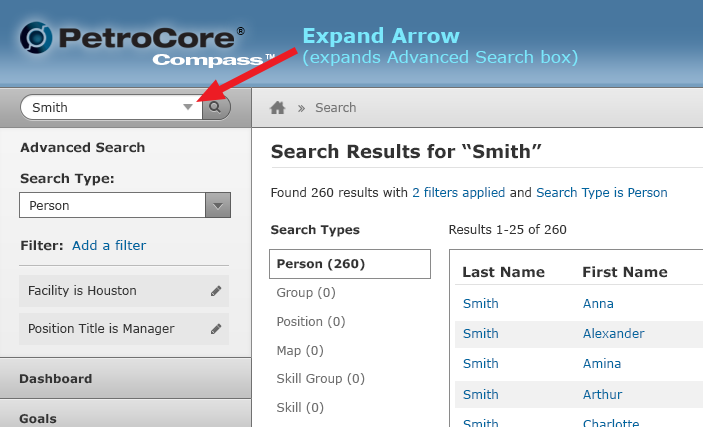
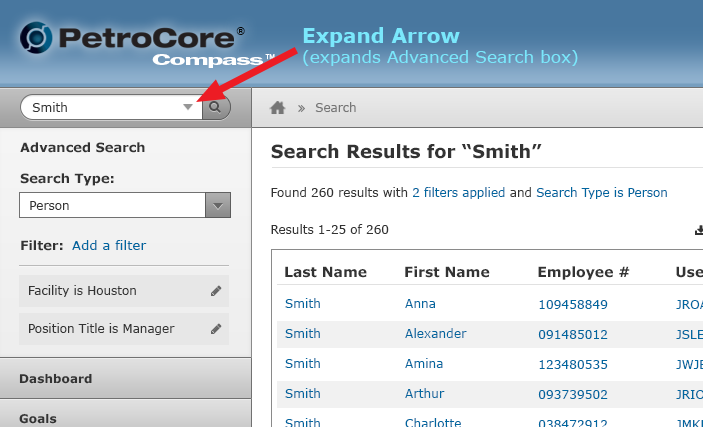
Add full page Advanced Search Results screenshot. Fix Advanced Search closeup.

diff --git a/search-results.html b/search-results.html
@@ -121,6 +121,12 @@
           <h5>Search Type in Advanced Search</h5>
          <p><img src="images/petrocore-interface-advanced-search-3.jpg" alt="Advanced Search"  style="border: 1px solid #717171;"/></p>
          <p>There are 8 search types in Advanced Search. They are also mentioned below under Search Types.</p>
+
+          <hr>
+          
+          <h5>Advanced Search Overview</h5>
+         <p><img src="images/advanced-search-overview.jpg" alt="Advanced Search"  style="border: 1px solid #717171;"/></p>
+         <p>Vestibulum id ligula porta felis euismod semper. Vivamus sagittis lacus vel augue laoreet rutrum faucibus dolor auctor.</p>
         <!--<div class="row">
             <div class="six columns">
               <a href="images/petrocore-interface-advanced-search-2.jpg"><img src="images/petrocore-interface-advanced-search-2.jpg" alt="Advanced Search" style="border: 1px solid #717171;"></a>
